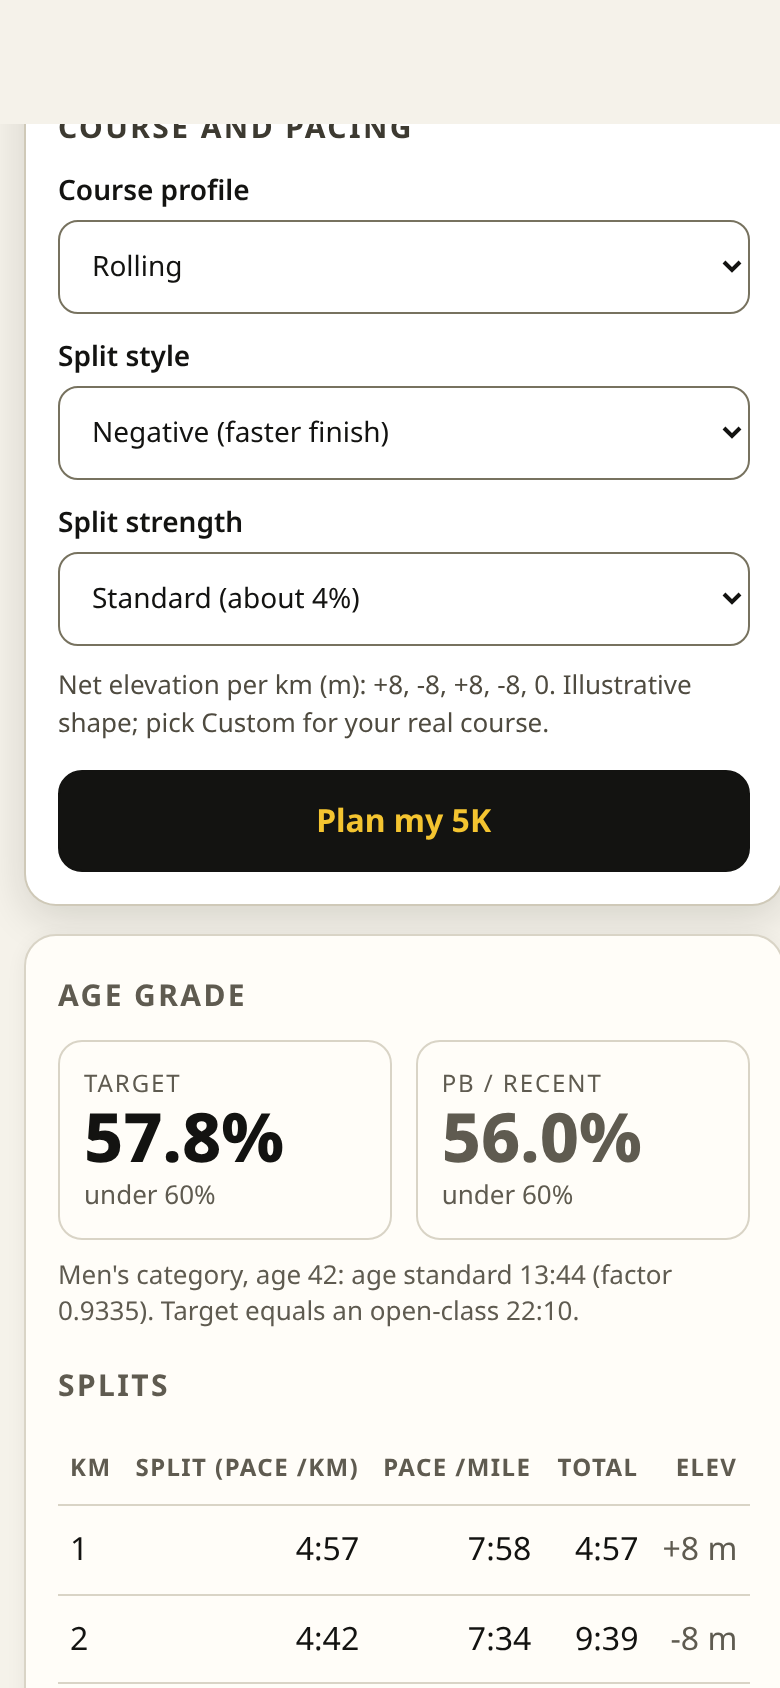
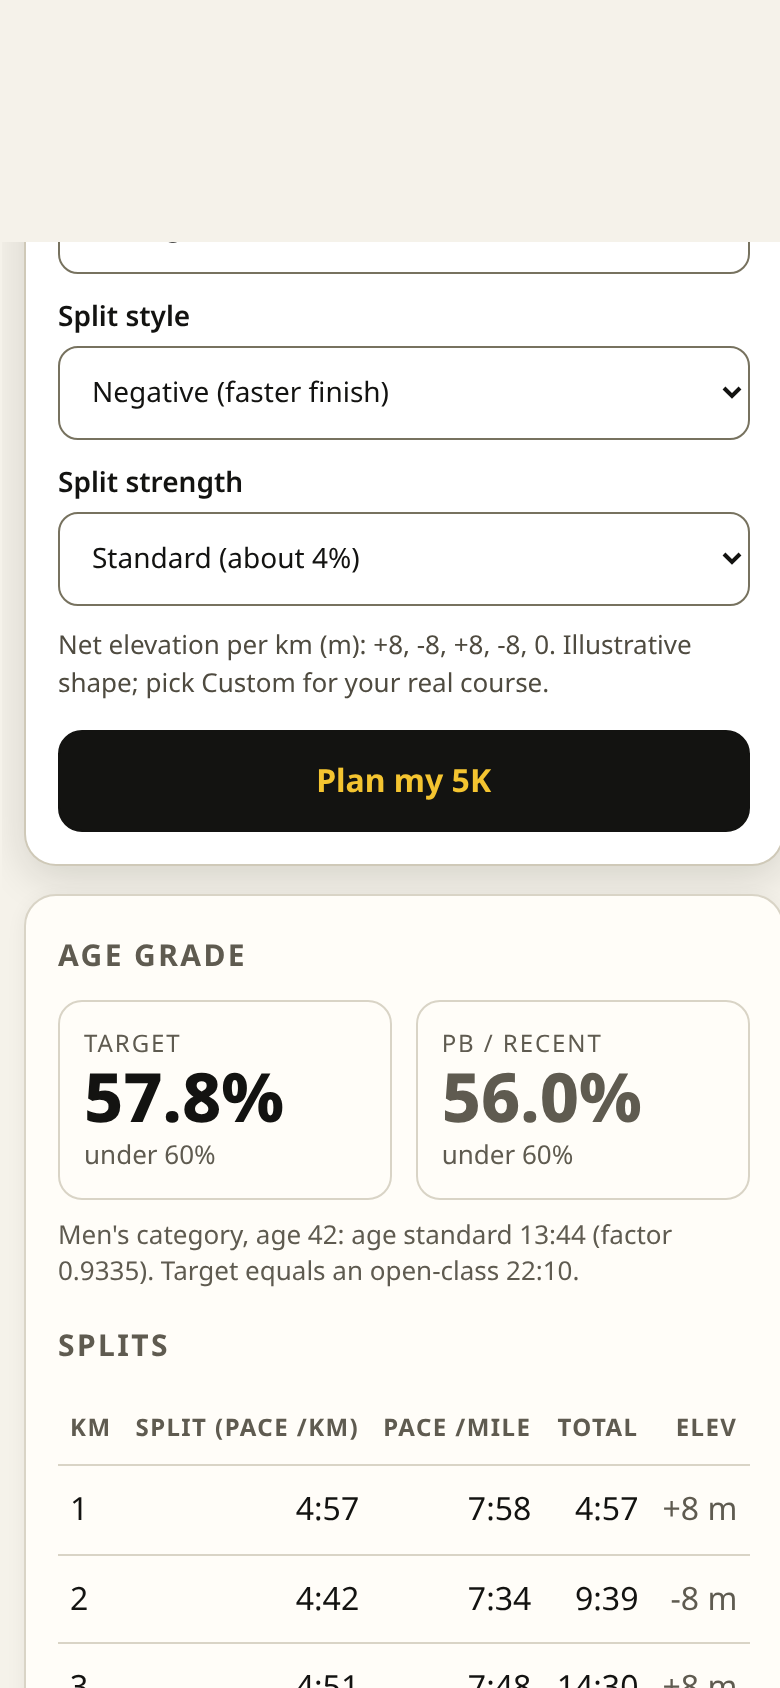
Deploy to Cloudflare Pages: _headers, build:pages and deploy:pages scripts, docs

diff --git a/docs/BUILD_LOG.md b/docs/BUILD_LOG.md
@@ -94,3 +94,11 @@ Instruction used: "Create a public repo under norris1976 and push; create a Verc
 - **Check:** 22 tests pass; `tools/check-theme.mjs` OK on the live URL (worst text contrast 6.06 light and 7.26 dark, no green pixels); `tools/verify-and-screenshot.mjs` OK live (0 external requests, 0 console errors). Screenshots at 390px and 1280px, dark and light, with focus state and the custom-elevation field, in `docs/screenshots/white-card/`; main screenshots retaken.
 - **Deployed:** `vercel deploy --prod`; https://5k.sportbuilds.co and the vercel.app alias return 200 and serve the new CSS.
 - **What broke:** nothing in the app. The deploy command's output was a long JSON block rather than a clean URL line, so I confirmed the deploy by fetching the live CSS instead.
+
+## Moved to Cloudflare Pages (Mon 26 Oct, about 14:20 to 14:50 Europe/London)
+- **Why:** Tim wants the tools on Cloudflare Pages like the main site, and Vercel's free (Hobby) plan is non-commercial only, which matters if sponsorship appears.
+- **What changed in the repo:** `cloudflare/_headers` (same CSP, nosniff and referrer policy as `vercel.json`, plus the HSTS and revalidation headers Vercel added by default, plus `Cache-Control: no-transform`); `tools/build-pages.mjs` (copies only `index.html`, `style.css`, `src/` and `_headers` into `dist/`); npm scripts `build:pages` and `deploy:pages`; `dist` in `.gitignore`. `vercel.json` and the Vercel project are unchanged and still deploy.
+- **How to deploy:** `npm run deploy:pages` (needs `CLOUDFLARE_API_TOKEN` and `CLOUDFLARE_ACCOUNT_ID` in the environment), which runs `npx --yes wrangler@4.86.0 pages deploy dist --project-name saturday-5k-pace-planner --branch main`.
+- **Steps:** created the direct-upload Pages project; deployed and checked https://saturday-5k-pace-planner.pages.dev (200, headers, 22 tests, headless run: form, splits, share-card download, 0 external requests, 0 console errors); attached `5k.sportbuilds.co` to the project; PATCHed the existing `5k` DNS record from the DNS-only CNAME to Vercel to a **proxied** CNAME to `saturday-5k-pace-planner.pages.dev` (Pages needs the proxy); waited for the domain and certificate to go active; re-ran the headless checks on the live domain; removed `5k.sportbuilds.co` from the Vercel project.
+- **What broke:** (1) A few requests got a 522 for roughly 30 seconds right after the DNS switch, before Cloudflare had verified the domain. (2) Cloudflare injected its Web Analytics beacon (`static.cloudflareinsights.com`) into the HTML on the proxied domain. The CSP blocked it, so the headless check failed on an external request and a console error, and it would have contradicted the "no analytics" claim. Fix: `Cache-Control: no-transform` in `_headers` (Cloudflare skips injection for such responses). Same fix applied on the main site. Turning off Web Analytics for the zone in the dashboard would be belt and braces; the API token cannot do that.
+- **Rollback, if ever needed:** PATCH the `5k` record back to `cfa33e65f3fa4637.vercel-dns-017.com`, DNS-only, and re-add `5k.sportbuilds.co` to the Vercel project.

diff --git a/README.md b/README.md
@@ -6,7 +6,7 @@ Enter a 5K PB (or recent time), your age, the age-grading category, a target tim
 2. **Per-km target splits** for 5 km, adjusted for the course (flat, rolling, hilly or your own per-km elevation list) with a positive, even or negative split. Splits are whole seconds and add up **exactly** to your target; each row shows split (= pace per km), pace per mile and cumulative time.
 3. A **shareable result card**: a downloadable PNG (drawn on a canvas) and copyable text.
 
-Works for any 5K, including weekly timed runs. It runs entirely in your browser: no login, no analytics, no scraping, no network calls (the Vercel config sets a Content-Security-Policy with `connect-src 'none'`).
+Works for any 5K, including weekly timed runs. It runs entirely in your browser: no login, no analytics, no scraping, no network calls (the host sends a Content-Security-Policy with `connect-src 'none'`: `cloudflare/_headers` on Cloudflare Pages, `vercel.json` on Vercel).
 
 Part of **Sport Builds**, one vibe-coded sports app a week. Build notes and honest failure log: [docs/BUILD_LOG.md](docs/BUILD_LOG.md).
 
@@ -64,3 +64,15 @@ docs/                      BUILD_LOG.md, screenshots
 ```
 
 Code: MIT. Age-grade data: CC0 1.0.
+
+## Hosting and deploying
+
+Live at https://5k.sportbuilds.co, served by **Cloudflare Pages** (direct-upload project `saturday-5k-pace-planner`, production branch `main`). The Vercel project of the same name is kept as a spare; its `vercel.app` URL still works and `vercel.json` is kept in step.
+
+```bash
+export CLOUDFLARE_API_TOKEN=...      # needs Account > Cloudflare Pages > Edit. Never commit or log it
+export CLOUDFLARE_ACCOUNT_ID=...
+npm run deploy:pages                 # build:pages -> tests -> wrangler pages deploy
+```
+
+`npm run build:pages` copies `index.html`, `style.css`, `src/` and `cloudflare/_headers` into `dist/` (git-ignored). The security headers (CSP, nosniff, referrer policy, HSTS, `Cache-Control: ... no-transform`) live in `cloudflare/_headers`; change them there and in `vercel.json` together. `no-transform` stops Cloudflare injecting its Web Analytics beacon, so the "no analytics" claim stays true.
